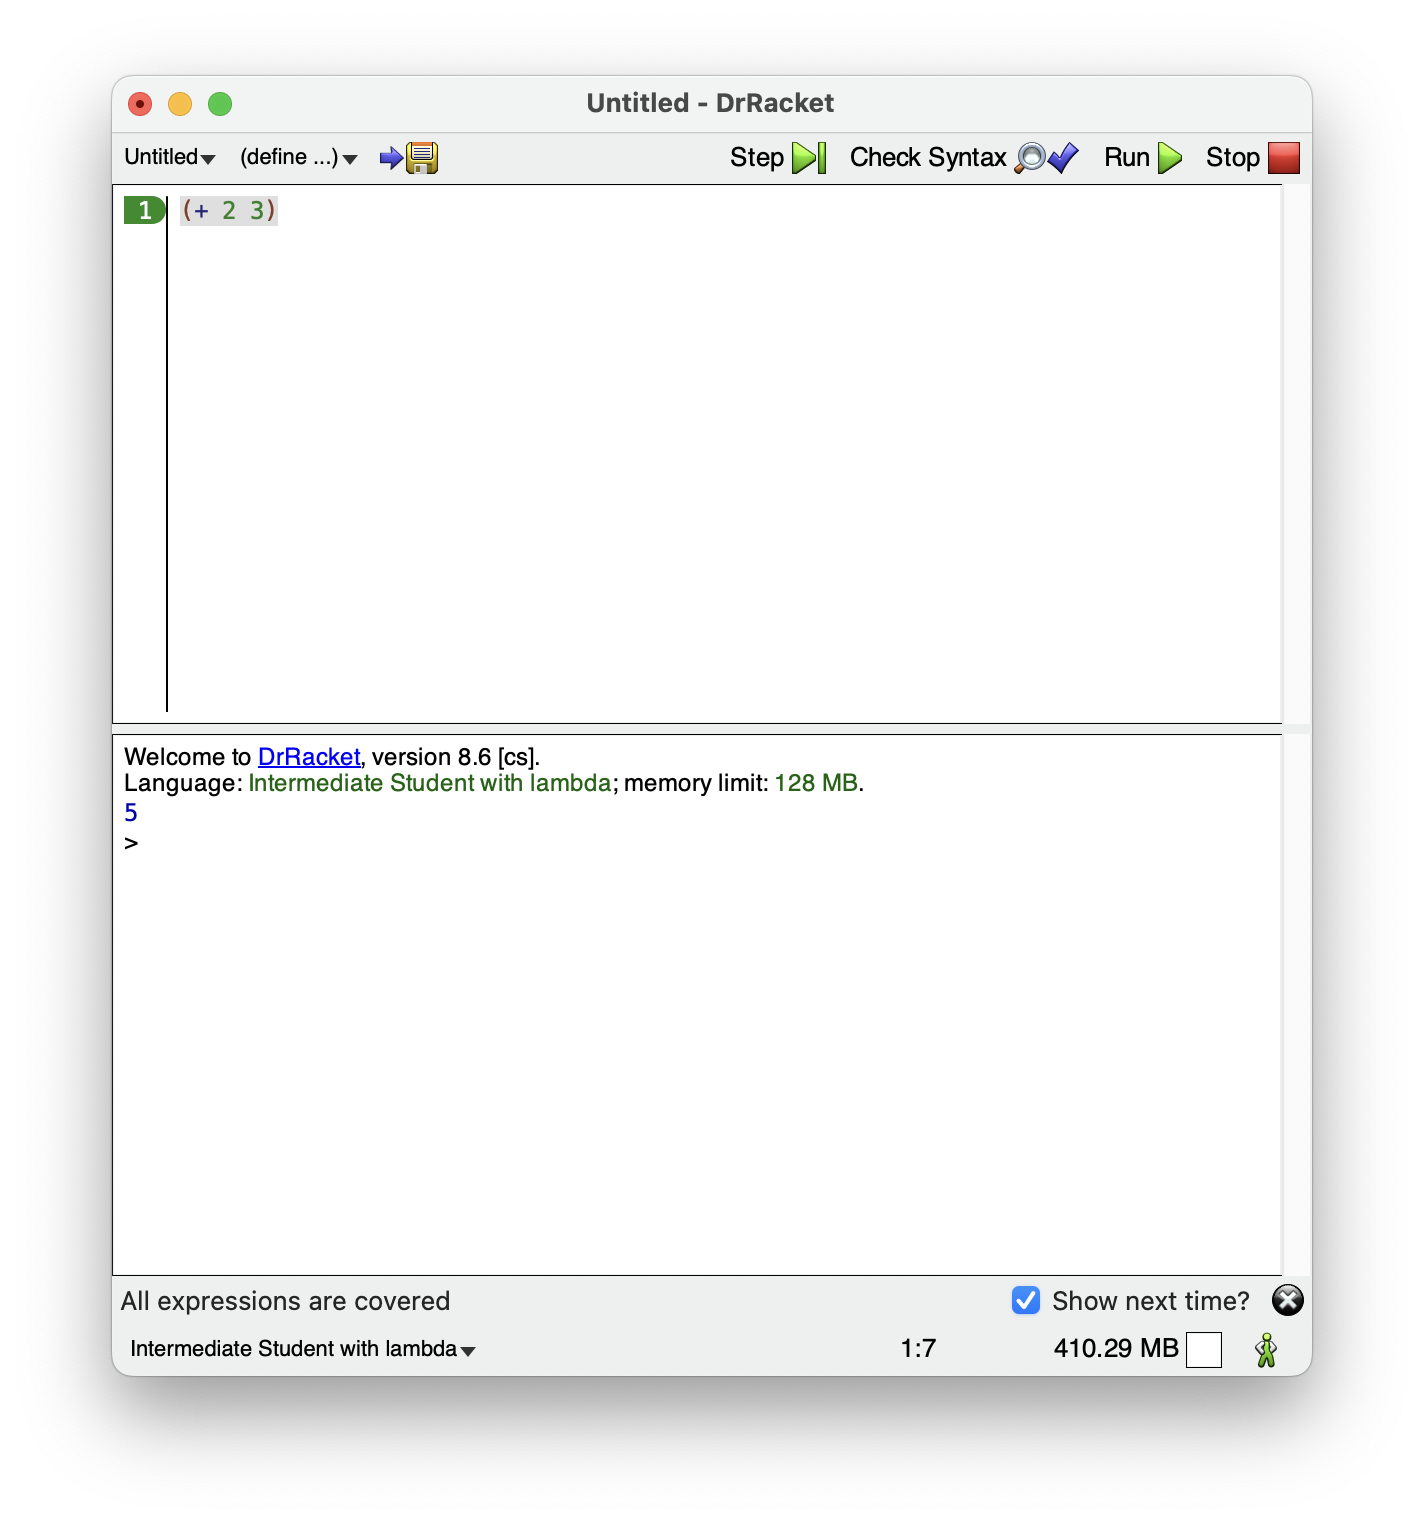
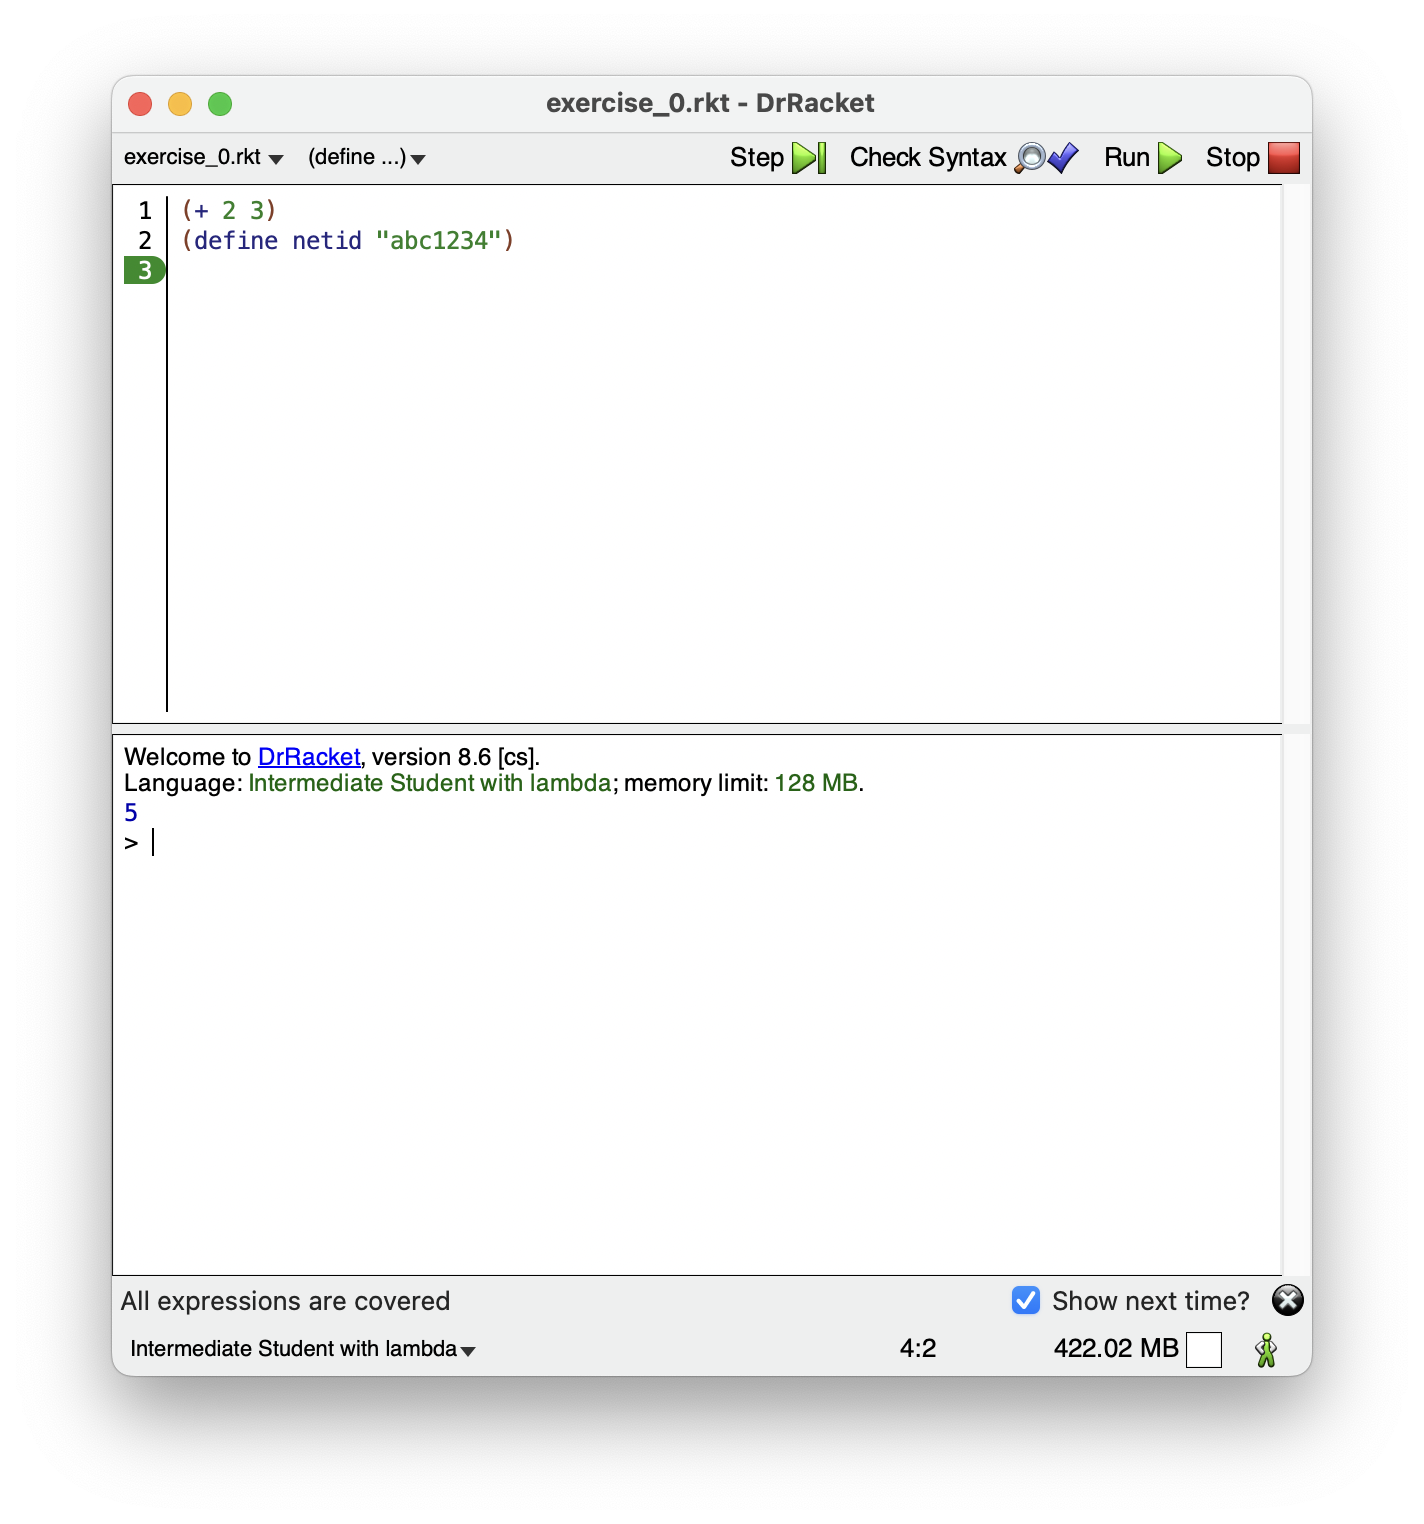
ex0 fixes

diff --git a/pages/_assignments/exercises/exercise_0/exercise_0.md b/pages/_assignments/exercises/exercise_0/exercise_0.md
@@ -34,6 +34,7 @@ Link to [Teams Survey](https://forms.gle/TNqpEJutHby4t4RS6) (note, you must be l
 
 While we'd like for the Teams to be as stable as possible throughout the quarter, stuff does happen so switching will be allowed after Week 2.
 
+* * *
 ## Activity 1 - Setting up DrRacket
 
 Our first and most important task is to get DrRacket (and the Racket programming language) installed on your computer.
@@ -72,15 +73,17 @@ After installation, you should be able to double click on the DrRacket executabl
 
 That should launch a window that looks something like this:
 
-![DrRacket Window](/assets/images/drracket_main.png)
+<img alt="DrRacket Window" src="/assets/exercise_0/drracket_main.png" style="scale:50%"/>
 
 One of the main reasons we use Racket in this class is that it is essentially a programming language for programming languages. Rather than being a single programming language (e.g. Python), it allows you to implement your own languages. In this class, we'll actually be gradually progressing from one language to another language as we practice our programming skills.
 
 In the bottom left hand corner, you should see a message that says "No language chosen" (you might also see something else here, that's okay). If you click on that menu you'll be brought to the Language Select screen (see below). On this screen, select the `Intermediate Student Language with lambda` and hit OK.
 
-![DrRacket Language Select](/assets/exercise_0/drracket_language.png)
+<img alt="DrRacket Language Select" src="/assets/exercise_0/drracket_language.png" style="scale:50%"/>
 
 Once you've selected the language, hit the ![Run Button](/assets/exercise_0/drracket_run.png) button at the top of the Window which asks Racket to load the selected language. If everything went well, near the bottom of the window you'll see a line that says `Language: Intermediate Student with lambda; memory limit: 128 MB `.
+
+* * *
 
 ## Activity 3 - Running a Program
 
@@ -92,15 +95,17 @@ So let's write a **powerful** program! In the bottom half of the window (also ca
 (+ 2 3)
 ```
 
-![Our First Program](/assets/exercise_0/drracket_calc.png)
+<img alt="Our First Program" src="/assets/exercise_0/drracket_calc.png" style="scale:50%"/>
 
 If you see a result of `5`, congratulations! You've officially run your first program.
 
+* * *
+
 ## Activity 4 - Saving your Program
 
-However, because you wrote it in the _Interaction Window_, DrRacket hasn't stored your program in any file on your computer. To do that, we need to use the Definitions Window_, the top half of the DrRacket app. Type in `(+ 2 3)` again, but this time up top in the _Definitions Window_. Then click the `Run` button ![Run Button](/assets/exercise_0/run_button.png)
+However, because you wrote it in the _Interaction Window_, DrRacket hasn't stored your program in any file on your computer. To do that, we need to use the Definitions Window_, the top half of the DrRacket app. Type in `(+ 2 3)` again, but this time up top in the _Definitions Window_. Then click the `Run` button ![Run Button](/assets/exercise_0/drracket_run.png)
 
-![Our First Program as a Definition](/assets/exercise_0/drracket_definitions.png)
+<img alt="Our First Definitions" src="/assets/exercise_0/drracket_definitions.png" style="scale:50%"/>
 
 You should see the same calculated result now at the bottom in the _Interactions Window_. In general, when writing programs in our class, we'll follow this same workflow:
 
@@ -116,6 +121,8 @@ I like commonsense file names, so go ahead and name your file `exercise_0.rkt`.
 
 Once you hit save, you should be able to go to that folder on your computer and see your new document (it will have the `.rkt` file extension).
 
+* * *
+
 ## Activity 5 - Writing a Definition
 
 While `(+ 2 3)` is a pretty dope program, sometimes we need to teach the computer to remember a particular piece of data to be used later in our programs. We can teach the computer to remember pieces of data using a `define` _special form_. Add to your program in the Definitions Window a new line that looks like the following:
@@ -124,9 +131,13 @@ While `(+ 2 3)` is a pretty dope program, sometimes we need to teach the compute
 (define netid "abc1234")
 ```
 
-**Make sure to replace the thing in quotation marks with your actual NetID***. This tells Racket that from now on, when you give it the _symbol_ `netid` it will use the value `"abc1234"`. Make sure to run your program which should look like the below:
+**Make sure to replace the thing in quotation marks with your actual NetID***. This tells Racket that from now on, when you give it the _symbol_ `netid` it will use the value `"abc1234"`.
 
-![Final Version of Our First Program](/assets/exercise_0/drracket_ex0.png)
+>**Note**: Those quotation marks `"` are important! They tell Racket that this thing inside the quotation marks isn't just a symbol, it's a piece of data called a string (that's why DrRacket makes it green).
+
+Make sure to run your program which should look like the below:
+
+<img alt="Final Version of Our First Program" src="/assets/exercise_0/drracket_ex0.png" style="scale:50%"/>
 
 Notice that you won't see your NetID outputted in the _Interactions Window_. That's because you didn't actually ask Racket to do anything with your NetID–you just asked it to remember it. That's okay for now. We just want to have it store the NetID so that when we run your program, we can tell your program apart from your classmate's.
 
@@ -141,5 +152,13 @@ Congratulations, you're officially a _Racketeer_!
 ## Turning it in
 
 All of the Exercises in this class will be graded via an autograder – a program, written in Racket, that will run your program and test it to see if it meets all the expectations of the assignment.
+
+This means that you must _carefully_ read each assignment description and follow it exactly. If your assignment does not satisfy the requirements in any way (even if you think it's small and inconsequential) you will receive points off (or in the worst case, not receive any points at all). For this assignment, because the program is so short, there's only a few things you should check:
+
+1. Does your program run without any errors?
+2. Are you outputting the result of some math calculation?
+3. Are you storing your actual netid inside the `define` statement?
+  * Important: Racket **is** case-sensitive (i.e. capitals matter) so make sure that your define statement actually says `(define netid ...)` where `netid` has no spaces and no capitals.
+  * Make sure your netid you enter is actually your netid. The autograder will compare the submitter's netid to the one in your program.
 
 For this assignment, you will upload your `exercise_0.rkt` file to the assignment on Canvas. DO NOT UPLOAD ANY OTHER FILES. Once you've submitted your file to Canvas, you're done!
